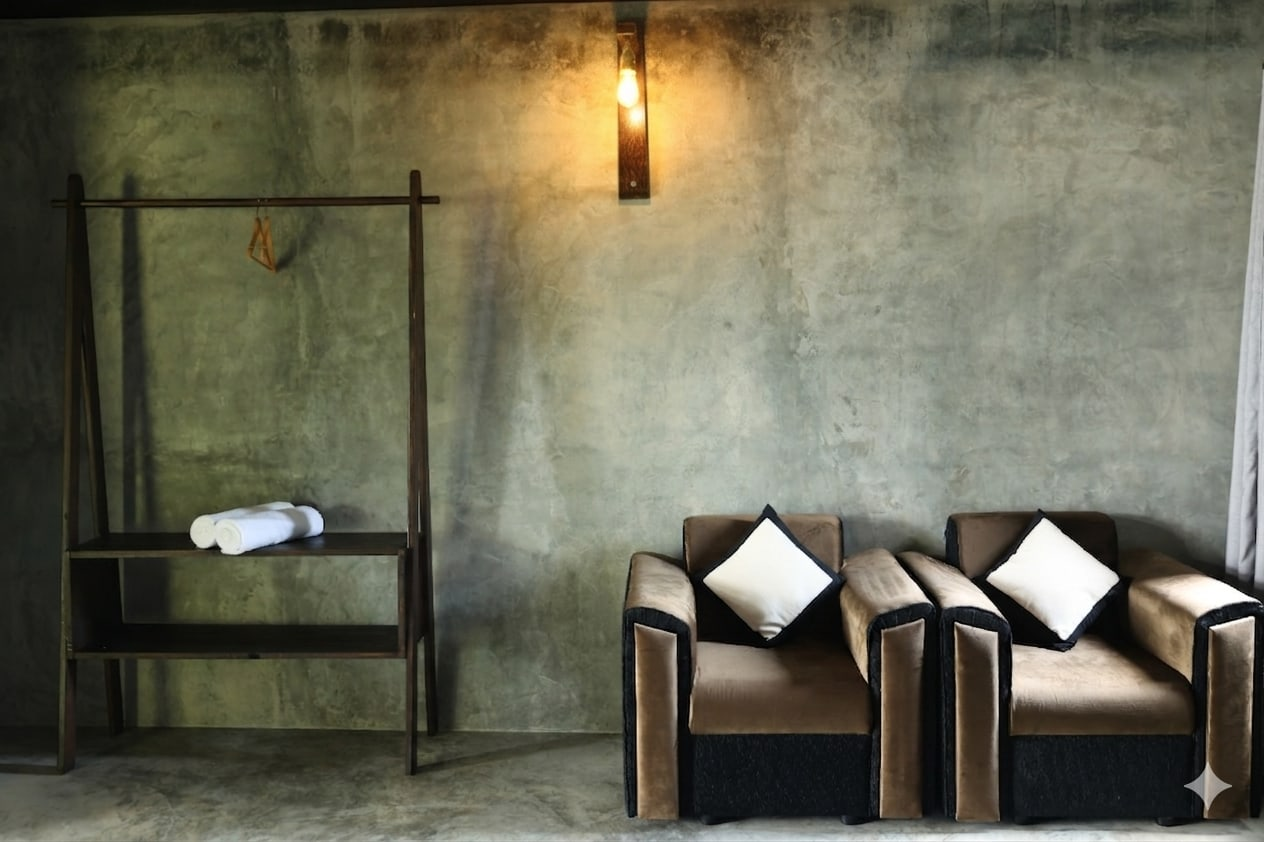
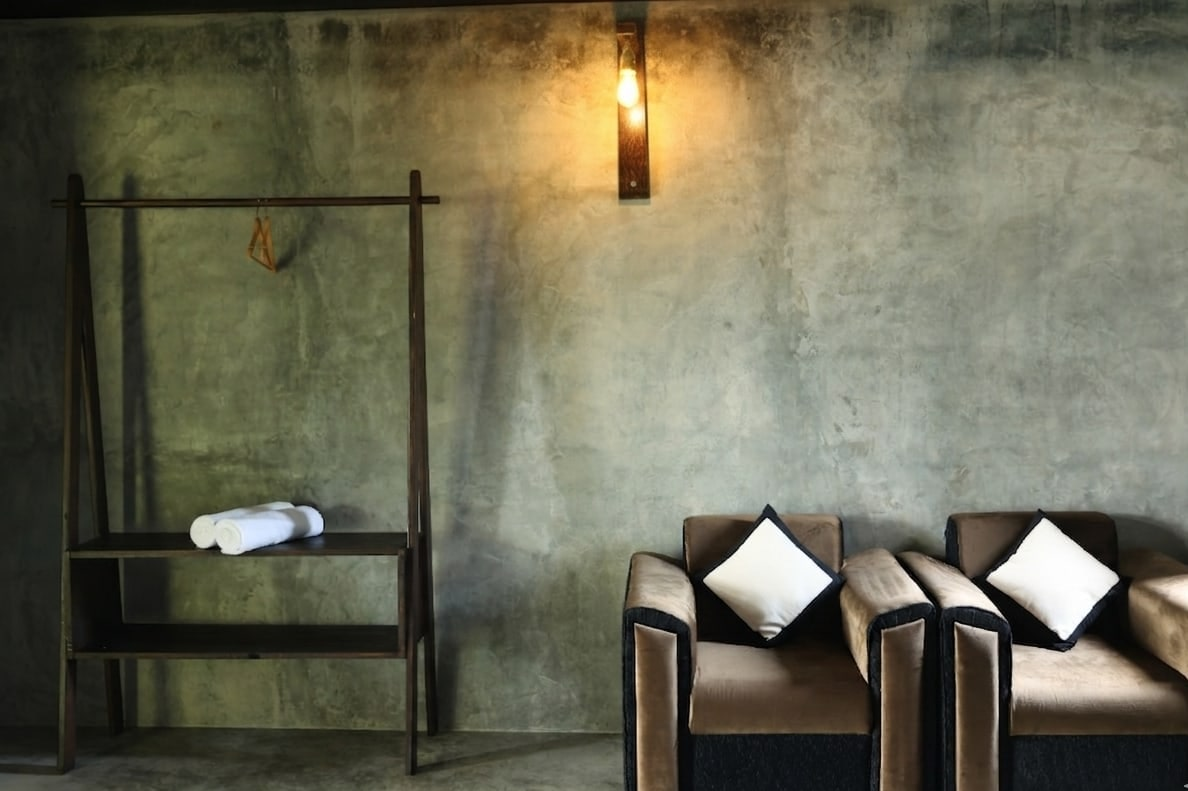
hero photo + Gemini watermarks
Hero img: object-position 'center' → '60% bottom' so the stone path
leads the eye into the frame (path lives in the lower-right of the
source). filter: brightness(1.12) lifts the foliage from feeling
flat-dark without blowing out highlights.

Cropped 6% off the bottom-right of aji.jpg + room-rack.jpg to remove
the Gemini sparkle watermark on the AI-edited photos. Loss of frame
is negligible (subjects centered, both still 1188×791).

diff --git a/style.css b/style.css
@@ -402,7 +402,11 @@ p + p { margin-top: 16px; }
   width: 100%;
   height: 100%;
   object-fit: cover;
-  object-position: center;
+  /* Bottom-anchored crop so the stone path leads the eye into the frame
+     (the path lives in the lower-right of the source photo). Slight
+     brightness lift so the foliage doesn't read as flat-dark. */
+  object-position: 60% bottom;
+  filter: brightness(1.12);
 }
 .hero-image::after {
   content: '';